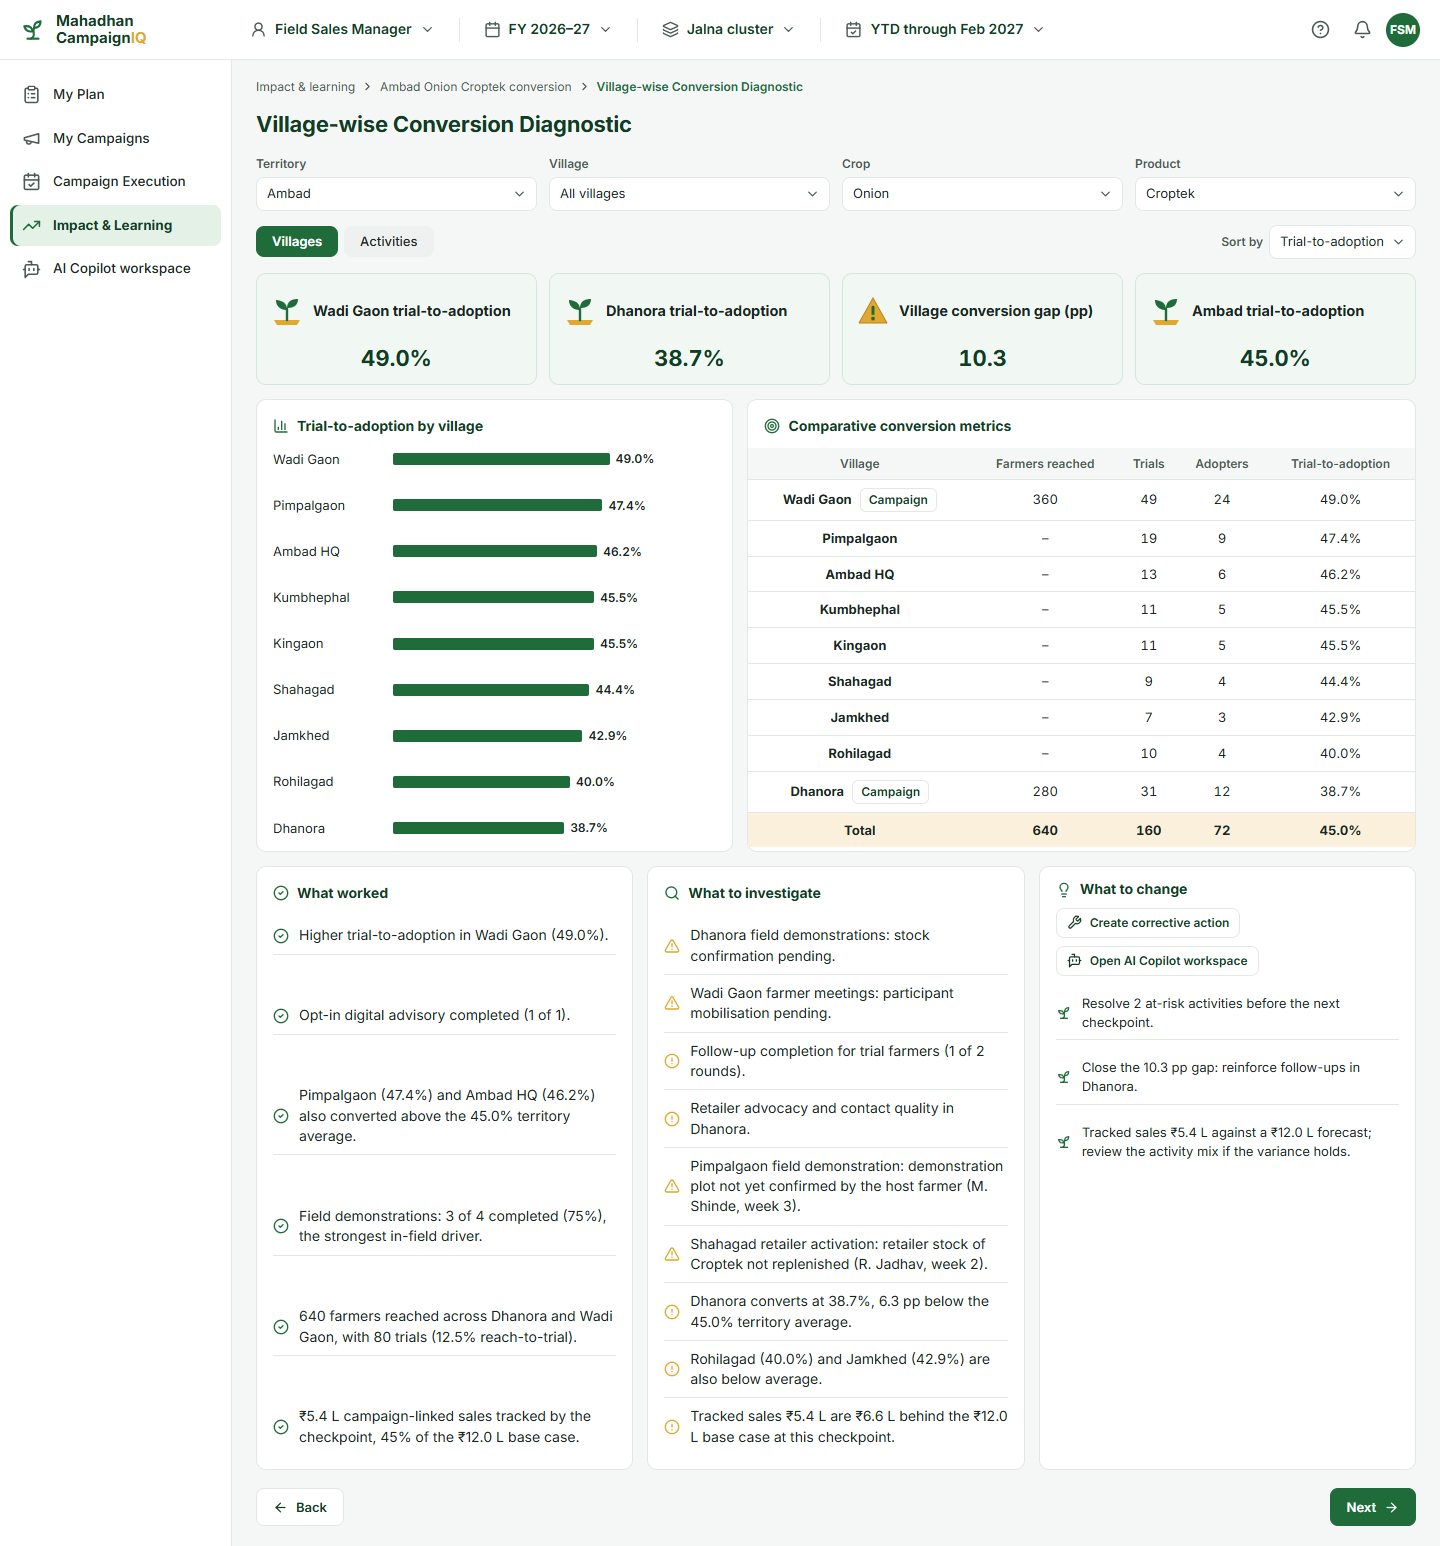
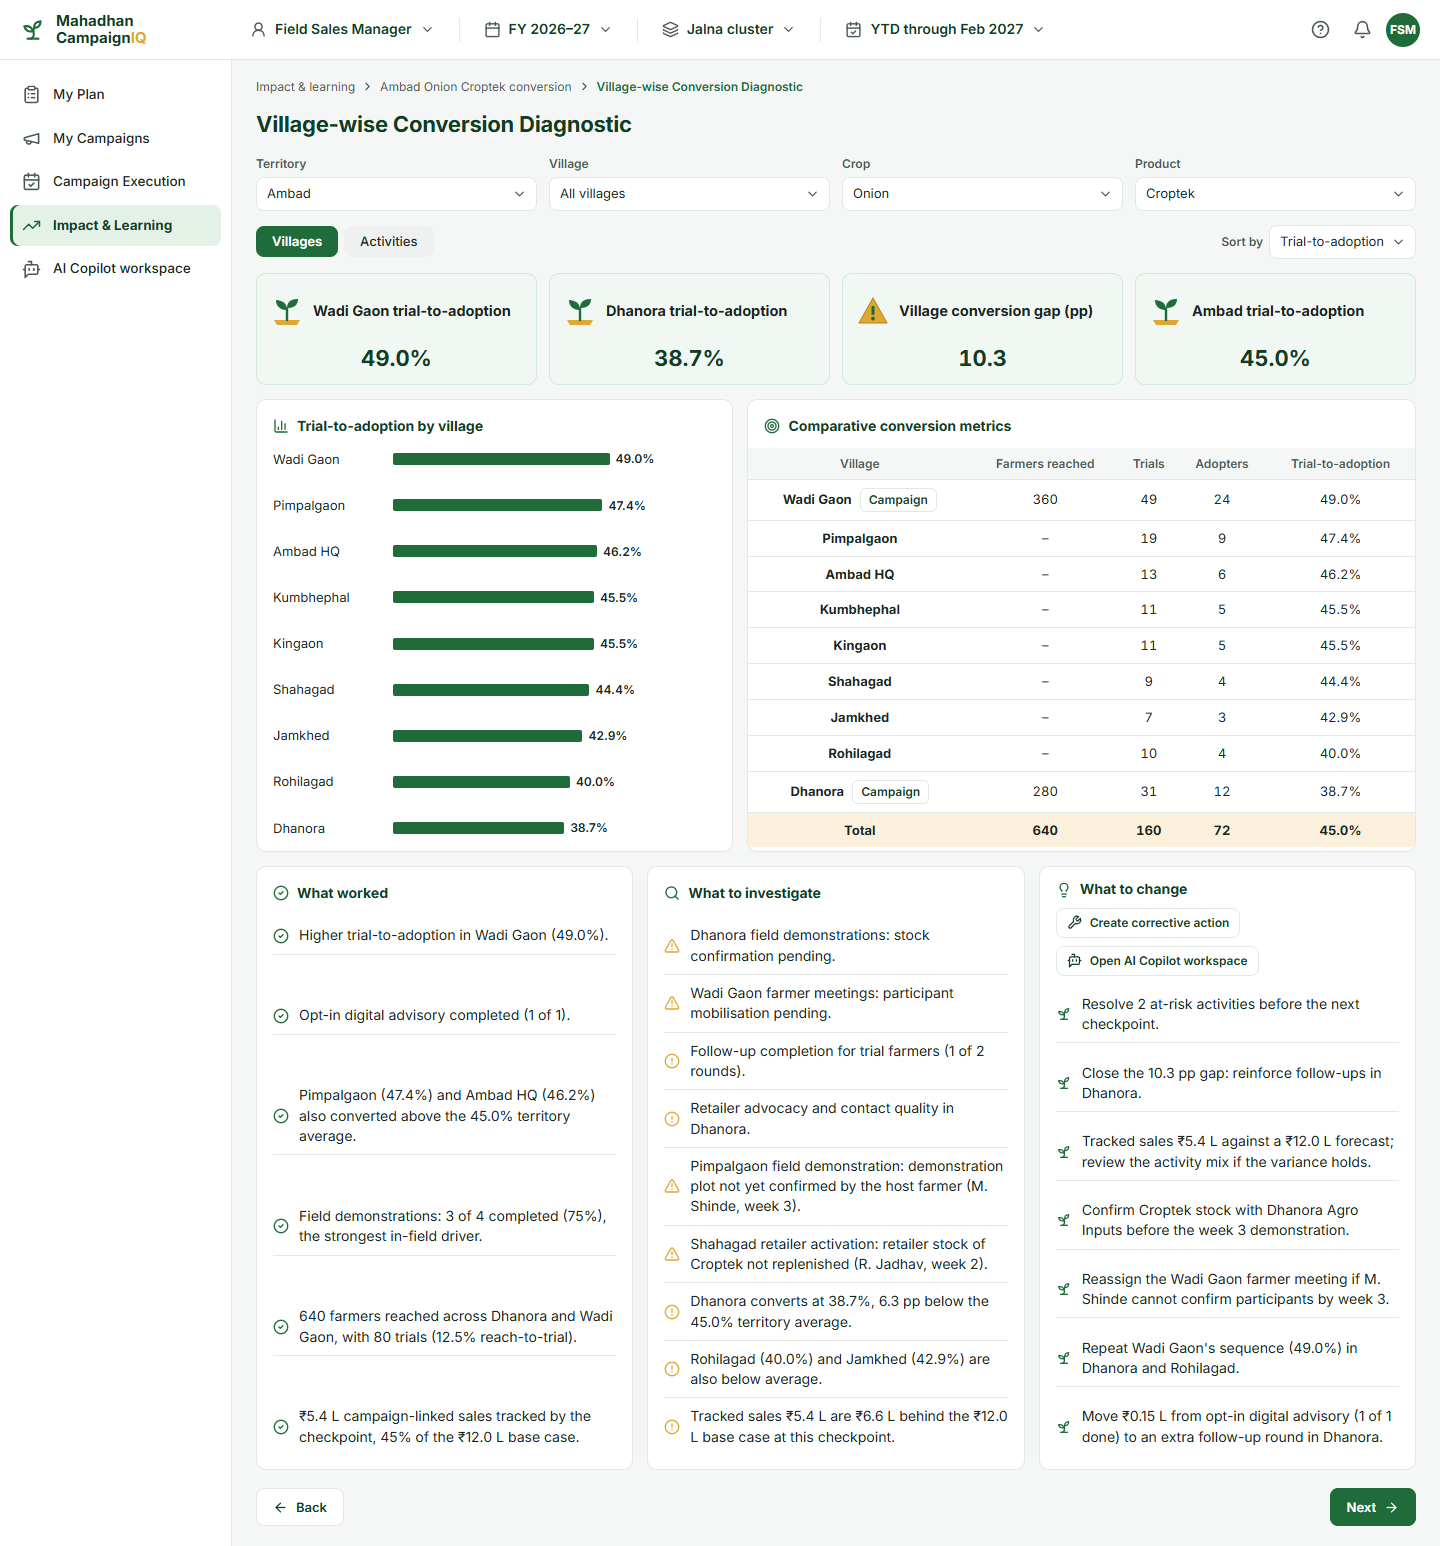
FSM: fuller 'What to change' card

Changed region(s): [[0.75, 0.621, 0.9688, 0.9314]]

diff --git a/campaigniq-v3/src/screens/fsm/Impact.tsx b/campaigniq-v3/src/screens/fsm/Impact.tsx
@@ -4,7 +4,7 @@ import { useState, type ReactNode } from 'react';
 import { netRoi } from '../../data/bh';
 import { lakh, num, pct, ratio, times } from '../../data/format';
 import {
-  activityName, allUnitsWith, AT_RISK_ACTIVITY, campaignFunnel, executionCounts, FSM_CAMPAIGN, impactSummary, interventionEffectiveness, scenarioOutcome, SCENARIOS, spendToDate,
+  activityName, allUnitsWith, AT_RISK_ACTIVITY, campaignFunnel, DEALERS, UNIT_COST, executionCounts, FSM_CAMPAIGN, impactSummary, interventionEffectiveness, scenarioOutcome, SCENARIOS, spendToDate,
   villagePerformance, BUSINESS_PRIORITIES,
 } from '../../data/fsm';
 import { F } from '../../routes';
@@ -46,7 +46,7 @@ function useImpactFilters() {
       ]}
       extras={[{ key: 'sort', label: 'Sort by', value: sortBy, onChange: (v) => setSortBy(v as ImpactSort), options: [opt('conversion', 'Trial-to-adoption'), opt('adopters', 'Adopters'), opt('trials', 'Trials'), opt('sales', 'Tracked sales')] }]} />
   );
-  return { header, view, rows, all: vp, village };
+  return { header, view, rows, all: vp, village, setVillage };
 }
 
 function VillageTable({ rows, compact }: { rows: ReturnType<typeof villagePerformance>; compact?: boolean }) {
@@ -161,6 +161,27 @@ export function VillageDiagnostic() {
   const otherAtRisk = allUnitsWith(fsm.units).filter((u) => u.status === 'at_risk' && !atRisk.some((a) => a.id === u.id)).slice(0, 2);
   const belowAvg = [...sorted].reverse().slice(1).filter((v) => v.conversionPct < s.trialToAdoptionPct).slice(0, 2);
   const salesGap = Math.round((s.forecast - s.tracked) * 10) / 10;
+  // "What to change": actions for at-risk units, replication and budget rebalance; each opens its workspace.
+  const unitNoun = (activity: string) => activityName(activity).replace(/s$/, '').toLowerCase();
+  const stockUnits = atRisk.filter((u) => /stock/i.test(u.issue ?? ''));
+  const ownerUnits = atRisk.filter((u) => /mobilis|participant|owner/i.test(u.issue ?? ''));
+  const lowest2 = [...sorted].reverse().slice(0, 2).filter((v) => v.name !== hi.name);
+  const fullType = eff.find((e) => e.planned > 0 && e.completed === e.planned);
+  const followGap = eff.find((e) => e.id === 'followup' && e.completed < e.planned);
+  const moveAmt = followGap ? UNIT_COST[followGap.id] : 0;
+  const loUnit = units.find((u) => u.village.split(', ').includes(lo.name) && u.activity === followGap?.id) ?? units.find((u) => u.village.split(', ').includes(lo.name));
+  const toChange: { label: string; to: () => void }[] = [
+    ...stockUnits.map((u) => ({
+      label: `Confirm ${FSM_CAMPAIGN.product} stock with ${DEALERS.find((d) => d.village === u.village)?.name ?? `the ${u.village} dealer`} before the week ${u.week} ${unitNoun(u.activity).split(' ').pop()}.`,
+      to: () => go(F.activity(u.id)),
+    })),
+    ...ownerUnits.map((u) => ({ label: `Reassign the ${u.village} ${unitNoun(u.activity)} if ${u.owner} cannot confirm participants by week ${u.week}.`, to: () => go(F.activity(u.id)) })),
+    ...(lowest2.length ? [{ label: `Repeat ${hi.name}'s sequence (${pct(hi.conversionPct)}) in ${lowest2.map((v) => v.name).join(' and ')}.`, to: () => { f.setVillage(lowest2[0].name); window.scrollTo(0, 0); } }] : []),
+    ...(fullType && followGap && loUnit ? [{
+      label: `Move ${lakh(moveAmt, moveAmt < 1 ? 2 : 1)} from ${fullType.name.toLowerCase()} (${fullType.completed} of ${fullType.planned} done) to an extra ${unitNoun(followGap.id).replace(/^farmer /, '')} round in ${lo.name}.`,
+      to: () => go(F.activity(loUnit.id)),
+    }] : []),
+  ];
   // "What worked": each point is shown only when its condition holds.
   const done = eff.filter((e) => e.planned > 0 && e.completed === e.planned);
   const aboveAvg = sorted.slice(1).filter((v) => v.conversionPct > s.trialToAdoptionPct).slice(0, 2);
@@ -216,11 +237,14 @@ export function VillageDiagnostic() {
           <Button small icon={Wrench} onClick={() => go(F.activity(atRisk[0]?.id ?? AT_RISK_ACTIVITY))}>Create corrective action</Button>
           <Button small icon={BotMessageSquare} onClick={() => go(F.assistant)}>Open AI Copilot workspace</Button>
         </>}>
-          <List items={[
-            { icon: Sprout, label: atRisk.length ? `Resolve ${atRisk.length} at-risk activit${atRisk.length === 1 ? 'y' : 'ies'} before the next checkpoint.` : 'All at-risk activities have corrective actions.' },
-            { icon: Sprout, label: `Close the ${s.villageGap.toFixed(1)} pp gap: reinforce follow-ups in ${lo.name}.` },
-            { icon: Sprout, label: `Tracked sales ${lakh(s.tracked, 1)} against a ${lakh(s.forecast, 1)} forecast; review the activity mix if the variance holds.` },
-          ]} />
+          <div className="notes-fill">
+            <List items={[
+              { icon: Sprout, label: atRisk.length ? `Resolve ${atRisk.length} at-risk activit${atRisk.length === 1 ? 'y' : 'ies'} before the next checkpoint.` : 'All at-risk activities have corrective actions.' },
+              { icon: Sprout, label: `Close the ${s.villageGap.toFixed(1)} pp gap: reinforce follow-ups in ${lo.name}.` },
+              { icon: Sprout, label: `Tracked sales ${lakh(s.tracked, 1)} against a ${lakh(s.forecast, 1)} forecast; review the activity mix if the variance holds.` },
+              ...toChange.map((c) => ({ icon: Sprout, label: <button type="button" className="row-link" onClick={c.to}>{c.label}</button> })),
+            ]} />
+          </div>
         </Card>
       </div>
     </FsmPage>

diff --git a/campaigniq-v3/src/styles.css b/campaigniq-v3/src/styles.css
@@ -345,3 +345,6 @@ textarea.input { height: auto; min-height: 60px; padding: 8px 10px; resize: vert
 .phase-detail > div { display: flex; flex-direction: column; gap: 1px; }
 .phase-detail dt { font-size: 12.5px; color: var(--na); }
 .phase-detail dd { margin: 0; font-size: 13.5px; color: var(--dark); font-weight: 600; }
+/* Recommendation rows that open their workspace */
+.row-link { text-align: left; color: inherit; font: inherit; padding: 0; cursor: pointer; }
+.row-link:hover { color: var(--brand); text-decoration: underline; }
